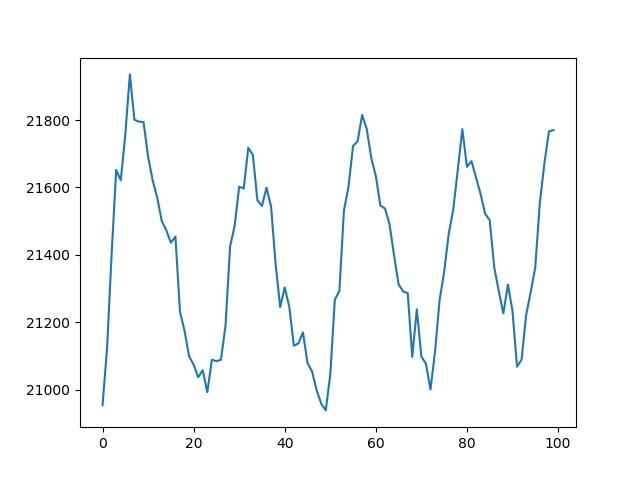
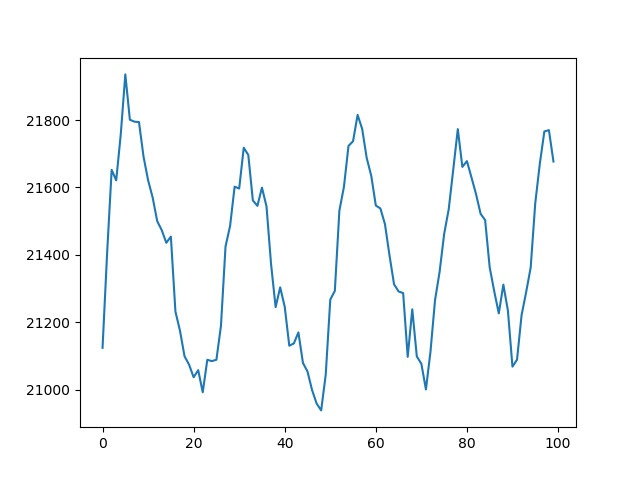
'auto'

Changed region(s): [[0.1562, 0.1562, 0.875, 0.875]]

diff --git a/README.md b/README.md
@@ -1,5 +1,5 @@
 Frizider live: 5
-21770.191666666666 
+21676.949999999997 
 0
 Temperatura:
 
